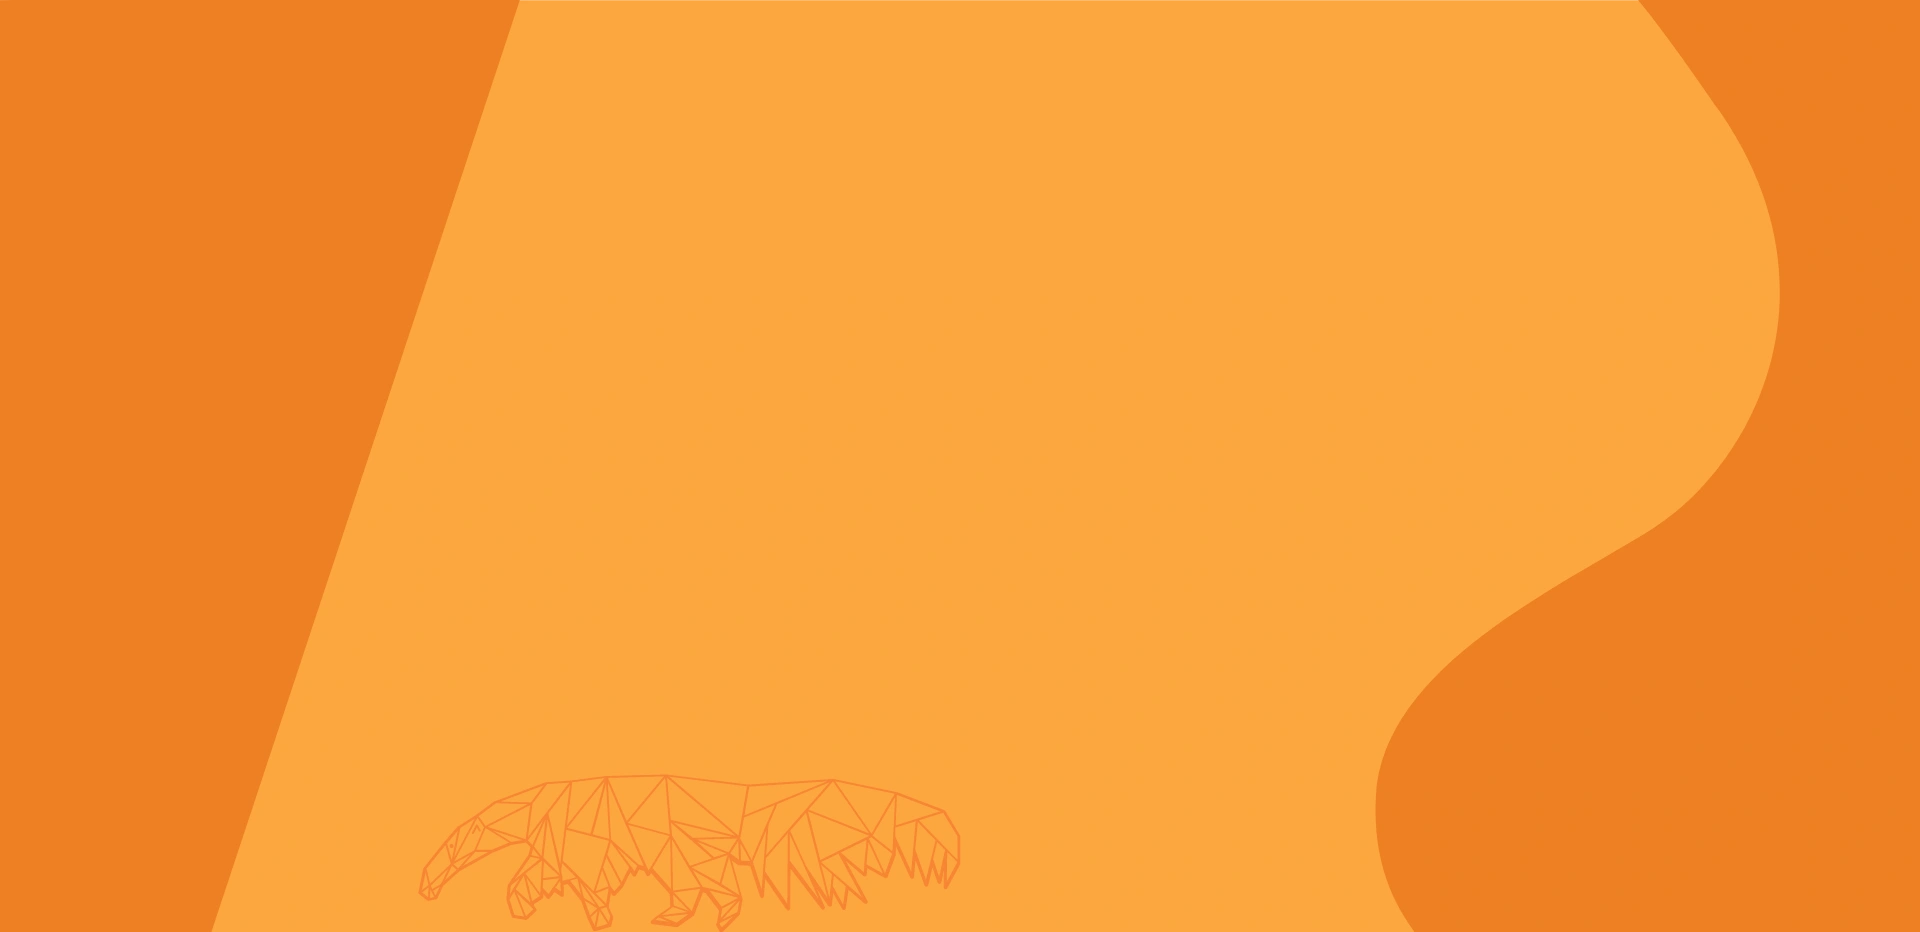
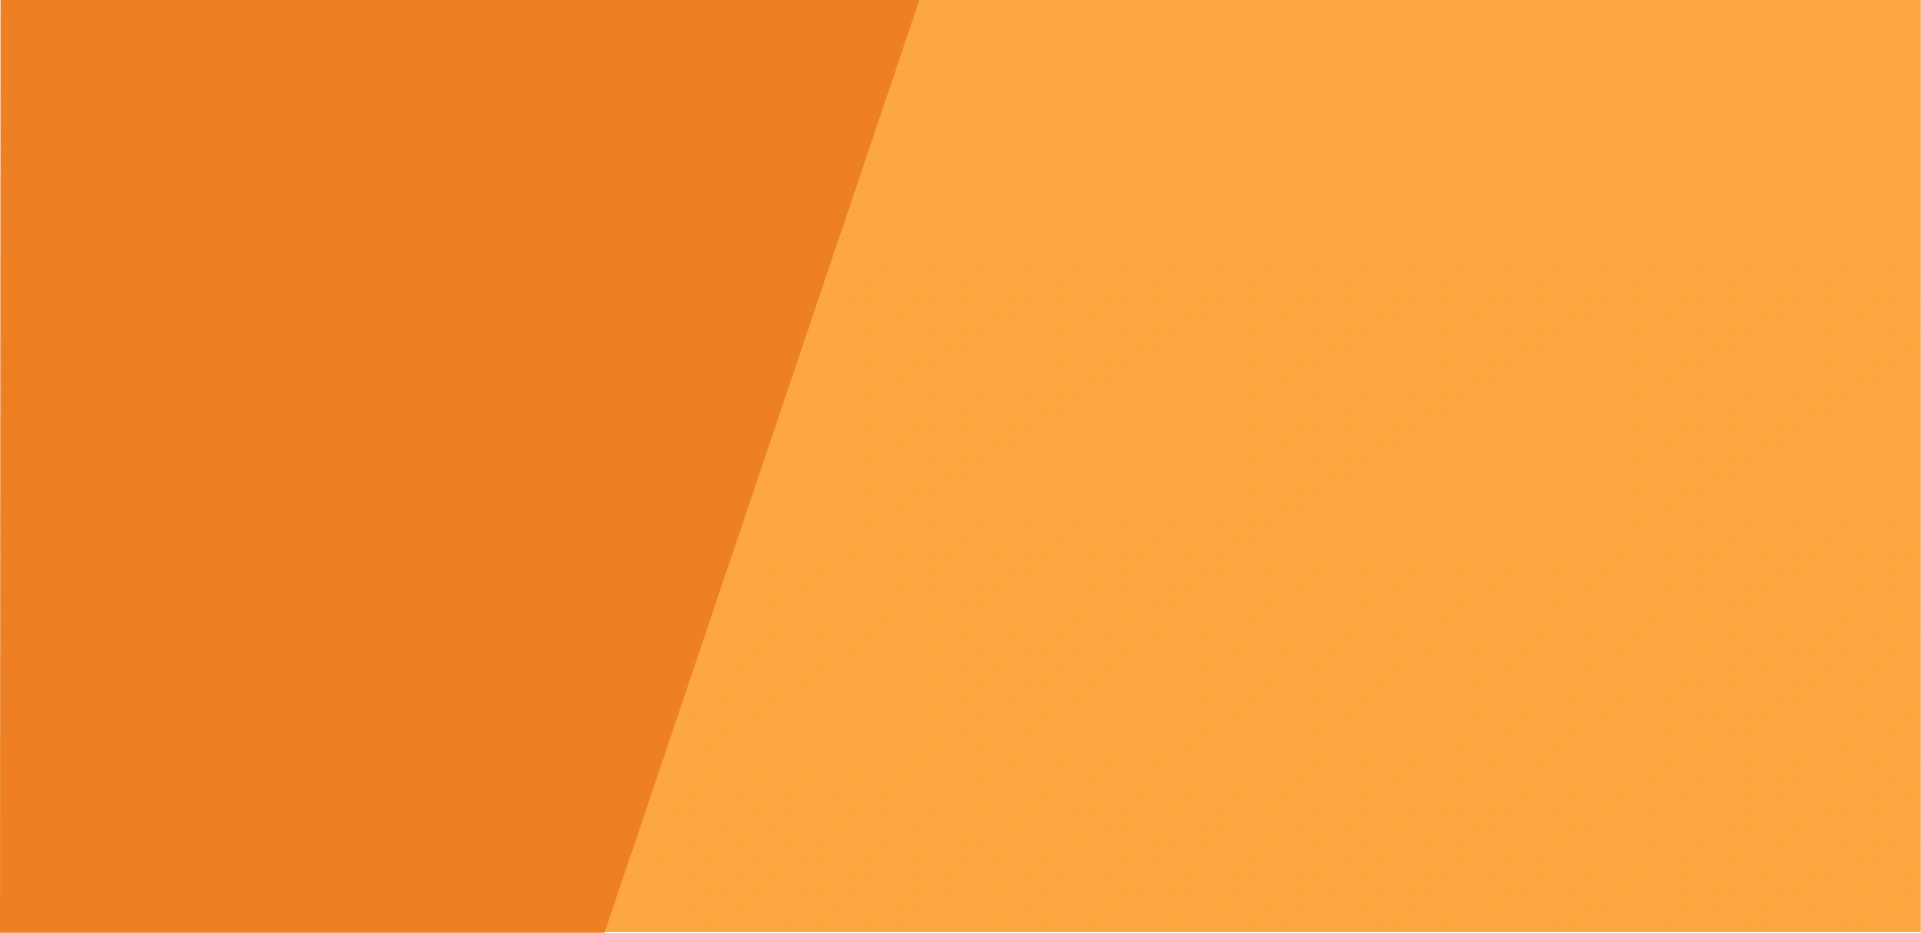
new design + responsive styles

diff --git a/src/views/Home.vue b/src/views/Home.vue
@@ -1,113 +1,167 @@
 <template>
-  <section>
-    <section
-      class="contact-us-section"
-      :style="{
-        backgroundImage:
-          'url(' + require('@/assets/contact-background.webp') + ')',
-      }"
-    >
-      <v-row justify="center" class="py-0 fill-height">
-        <v-col
-          sm="6"
-          md="4"
-          lg="4"
-          xl="4"
-          class="d-flex align-xs-end align-sm-end align-md-end align-lg-start align-xl-start"
-        >
-          <v-img
-            src="@/assets/logo.png"
-            max-height="190"
-            max-width="350"
-            class="mt-10"
-          />
-        </v-col>
-        <v-col
-          xs="8"
-          sm="10"
-          md="10"
-          lg="4"
-          xl="4"
-          class="d-flex align-xs-start align-sm-start align-md-start align-lg-center align-xl-center"
-        >
-          <v-card class="pa-10" style="width: 100%">
-            <div class="text-h2 yellow--text text--darken-3">Get in Touch!</div>
-            <v-spacer class="pt-5" />
-            <v-form
-              name="contact-us-form"
-              ref="form"
-              data-netlify="true"
-              data-netlify-honeypot="bot-field"
-              v-model="valid"
-              :lazy-validation="lazy"
-              @submit.prevent="handleSubmit"
+  <section class="section-background">
+    <v-row justify="center" class="pa-5 fill-height">
+      <!-- logo toucan -->
+      <v-col
+        xs="10"
+        sm="10"
+        md="6"
+        lg="6"
+        xl="6"
+        class="d-flex align-xs-end align-sm-end align-md-end align-lg-center align-xl-center"
+      >
+        <v-row justify="center">
+          <v-col>
+            <!-- logo toucan -->
+            <v-row justify="center">
+              <v-img src="@/assets/logo.png" class="mt-10 logo-size" />
+            </v-row>
+
+            <!-- spacer xl only -->
+            <v-spacer v-show="$vuetify.breakpoint.xl" style="padding: 300px" />
+            <!-- spacer lg only -->
+            <v-spacer v-show="$vuetify.breakpoint.lg" style="padding: 150px" />
+          </v-col>
+        </v-row>
+      </v-col>
+      <!-- contact form -->
+      <v-col
+        xs="8"
+        sm="10"
+        md="10"
+        lg="5"
+        xl="5"
+        class="d-flex align-xs-start align-sm-start align-md-start align-lg-center align-xl-center"
+      >
+        <v-row class="fill-height">
+          <v-col
+            class="d-flex align-content-sm-start align-content-md-space-between align-content-lg-center align-content-xl-space-between flex-wrap"
+          >
+            <!-- empty div -->
+            <div style="height: 10px; width: 100%" class="hidden-sm-only"></div>
+            <!-- form box -->
+            <div
+              style="
+                width: 100%;
+                background-color: white;
+                border: 2px solid #ed8023;
+                border-radius: 17px;
+                box-shadow: 20px 20px #ed8023;
+                padding: 60px 60px 40px 60px;
+                height: min-content;
+              "
             >
-              <!-- hidden input for netlify -->
-              <input type="hidden" name="form-name" value="contact-us-form" />
-
-              <!-- Client Full Name -->
-              <div class="label-contact-us">Your Full Name:</div>
-              <v-text-field
-                name="fullName"
-                v-model="fullName"
-                autocomplete="off1"
-                :rules="[rules.required, rules.alphabeticOnly, rules.max60]"
-                color="#F79D20"
-                outlined
-                dense
-              />
-
-              <!-- Company Name -->
-              <div class="label-contact-us">Your Company:</div>
-              <v-text-field
-                name="companyName"
-                v-model="companyName"
-                autocomplete="off1"
-                :rules="[rules.required, rules.max100]"
-                color="#F79D20"
-                outlined
-                dense
-              />
-
-              <!-- Client Email -->
-              <div class="label-contact-us">Your email:</div>
-              <v-text-field
-                name="clientMail"
-                v-model="clientMail"
-                autocomplete="off1"
-                :rules="[rules.required, rules.email, rules.max100]"
-                color="#F79D20"
-                outlined
-                dense
-              />
-
-              <!-- Mail Text -->
-              <div class="label-contact-us">Tell us what you need:</div>
-              <v-textarea
-                name="mailBody"
-                v-model="mailBody"
-                autocomplete="off1"
-                :rules="[rules.required, rules.max255]"
-                color="#F79D20"
-                outlined
-                dense
-              />
-
-              <v-btn
-                type="submit"
-                class="text-capitalize"
-                color="#ED8023"
-                width="130"
-                style="border-radius: 20px; height: 35px; color: white"
+              <div class="text-h2 yellow--text text--darken-3 text-center">
+                Get in Touch!
+              </div>
+              <v-spacer class="pt-5" />
+              <v-form
+                name="contact-us-form"
+                ref="form"
+                data-netlify="true"
+                data-netlify-honeypot="bot-field"
+                v-model="valid"
+                :lazy-validation="lazy"
+                @submit.prevent="handleSubmit"
               >
-                Send
-              </v-btn>
-            </v-form>
-          </v-card>
-        </v-col>
-        <v-col cols="4" lg="4" xl="4" class="hidden-md-and-down"> </v-col>
-      </v-row>
-    </section>
+                <!-- hidden input for netlify -->
+                <input type="hidden" name="form-name" value="contact-us-form" />
+
+                <!-- Client Full Name -->
+                <v-text-field
+                  name="fullName"
+                  v-model="fullName"
+                  label="Your Full Name:"
+                  autocomplete="off1"
+                  :rules="[rules.required, rules.alphabeticOnly, rules.max60]"
+                  color="#F79D20"
+                  outlined
+                  dense
+                />
+
+                <!-- Company Name -->
+                <v-text-field
+                  name="companyName"
+                  v-model="companyName"
+                  label="Your Company:"
+                  autocomplete="off1"
+                  :rules="[rules.required, rules.max100]"
+                  color="#F79D20"
+                  outlined
+                  dense
+                />
+
+                <!-- Client Email -->
+                <v-text-field
+                  name="clientMail"
+                  v-model="clientMail"
+                  label="Your email:"
+                  autocomplete="off1"
+                  :rules="[rules.required, rules.email, rules.max100]"
+                  color="#F79D20"
+                  outlined
+                  dense
+                />
+
+                <!-- Mail Text -->
+                <v-textarea
+                  name="mailBody"
+                  v-model="mailBody"
+                  label="Tell us what you need:"
+                  autocomplete="off1"
+                  :rules="[rules.required, rules.max255]"
+                  color="#F79D20"
+                  outlined
+                  dense
+                />
+
+                <v-row justify="center">
+                  <v-btn
+                    type="submit"
+                    class="text-capitalize"
+                    color="#ED8023"
+                    width="130"
+                    depressed
+                    style="
+                      border-radius: 10px;
+                      border: 2px solid #fda63f;
+                      height: 35px;
+                      color: white;
+                    "
+                  >
+                    Send
+                  </v-btn>
+                </v-row>
+              </v-form>
+            </div>
+            <!-- anteater -->
+            <v-row
+              justify="center"
+              class="mt-15 hidden-lg-only hidden-sm-and-down"
+            >
+              <v-col align-self="end">
+                <!-- spacer md only -->
+                <v-spacer
+                  v-show="$vuetify.breakpoint.md"
+                  style="padding: 100px"
+                />
+                <!-- anteater -->
+                <v-row justify="center">
+                  <v-img
+                    src="@/assets/anteater.webp"
+                    max-height="390"
+                    max-width="500"
+                    class="mt-10"
+                  />
+                </v-row>
+              </v-col>
+            </v-row>
+          </v-col>
+        </v-row>
+      </v-col>
+      <!-- empty column - only lg, xl -->
+      <v-col lg="1" xl="1" class="hidden-md-and-down"> </v-col>
+    </v-row>
   </section>
 </template>
 
@@ -200,10 +254,37 @@ export default class Home extends Vue {
 }
 </script>
 
-<style scoped>
-.contact-us-section {
-  background-size: cover;
-  height: 101vh;
-  width: 100%;
+<style scoped type="scss">
+::v-deep .v-text-field--outlined .v-label {
+  color: #f9a825;
+}
+.v-text-field--outlined >>> fieldset {
+  border-color: #d8d8d8;
+  border-radius: 10px;
+}
+@media (max-width: 599px) {
+  .section-background {
+    background-color: #ed8023;
+    background-size: cover;
+    height: 120vh;
+    width: 100%;
+  }
+  .logo-size {
+    max-height: 90px;
+    max-width: 150px;
+  }
+}
+@media (min-width: 600px) {
+  .section-background {
+    background-image: url("../assets/contact-background.webp");
+    background-size: cover;
+    height: 102vh;
+    width: 100%;
+  }
+
+  .logo-size {
+    max-height: 390px;
+    max-width: 500px;
+  }
 }
 </style>
